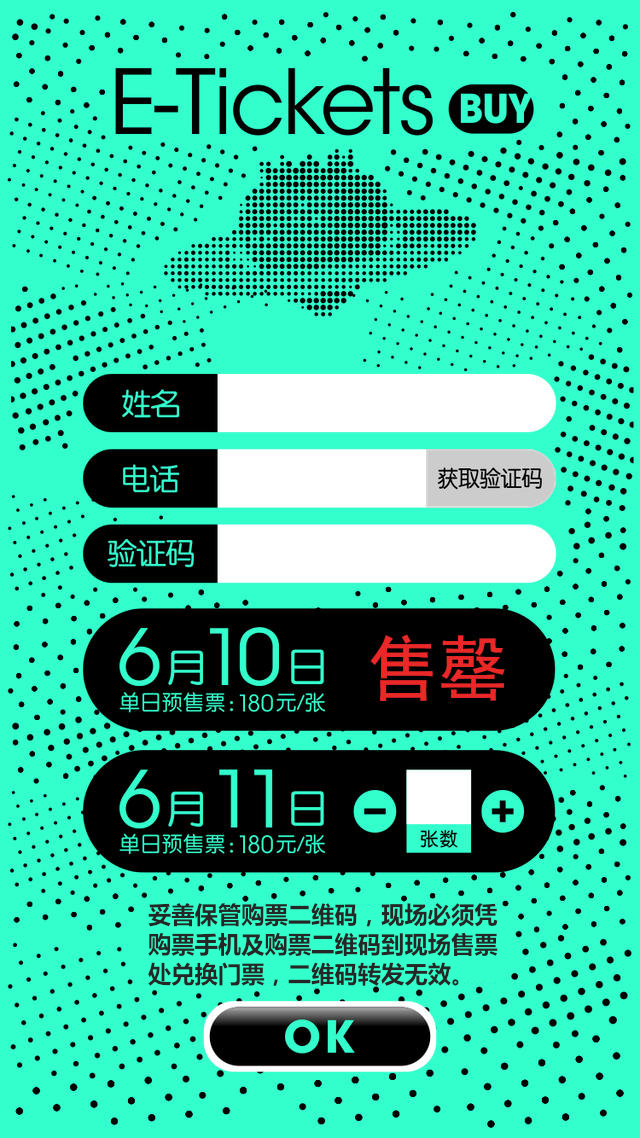
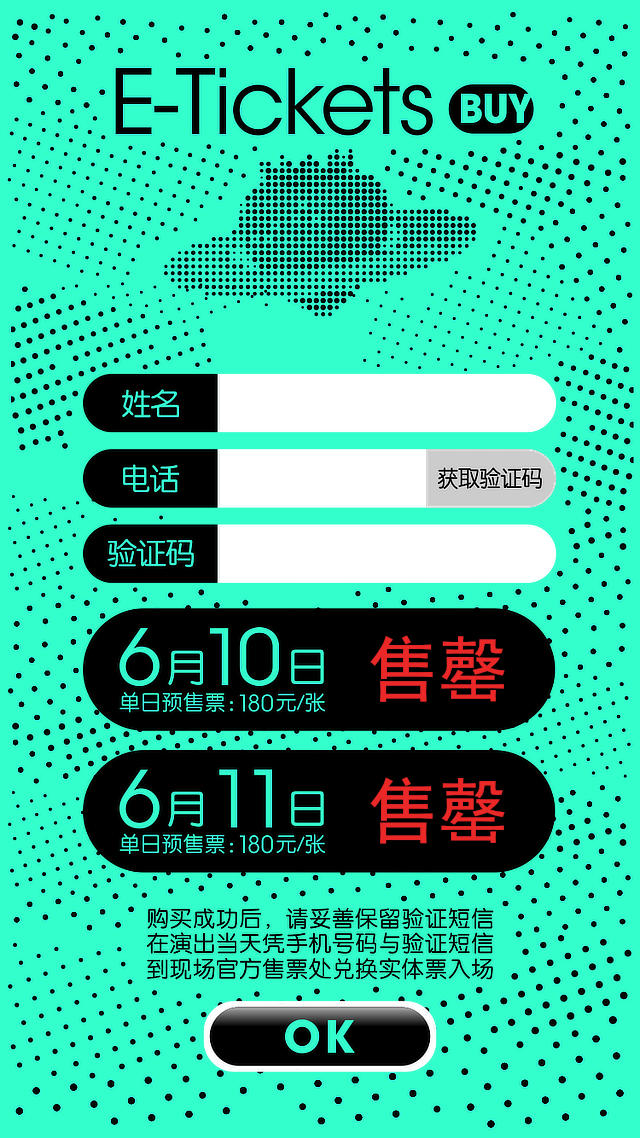
Change: 关闭购买并调整图标

diff --git a/ticket-buy.html b/ticket-buy.html
@@ -195,10 +195,10 @@
 		<input type="hidden" name="remark" value="">
 		<input type="hidden" name="channel" value="">
 		<!--<div class="buy-btn float-btn" fid="ticket-double">购买此票</div>-->
-		<div class="buy-btn float-btn"></div>
+		<!--<div class="buy-btn float-btn"></div>
 		<div class="numBtn double-jia"></div>
 		<input type="text" id="double-num" name="quantity" class="float-btn" value="0">
-		<div class="numBtn double-jian"></div>
+		<div class="numBtn double-jian"></div>-->
 	</form>
 </div>
 <script>
